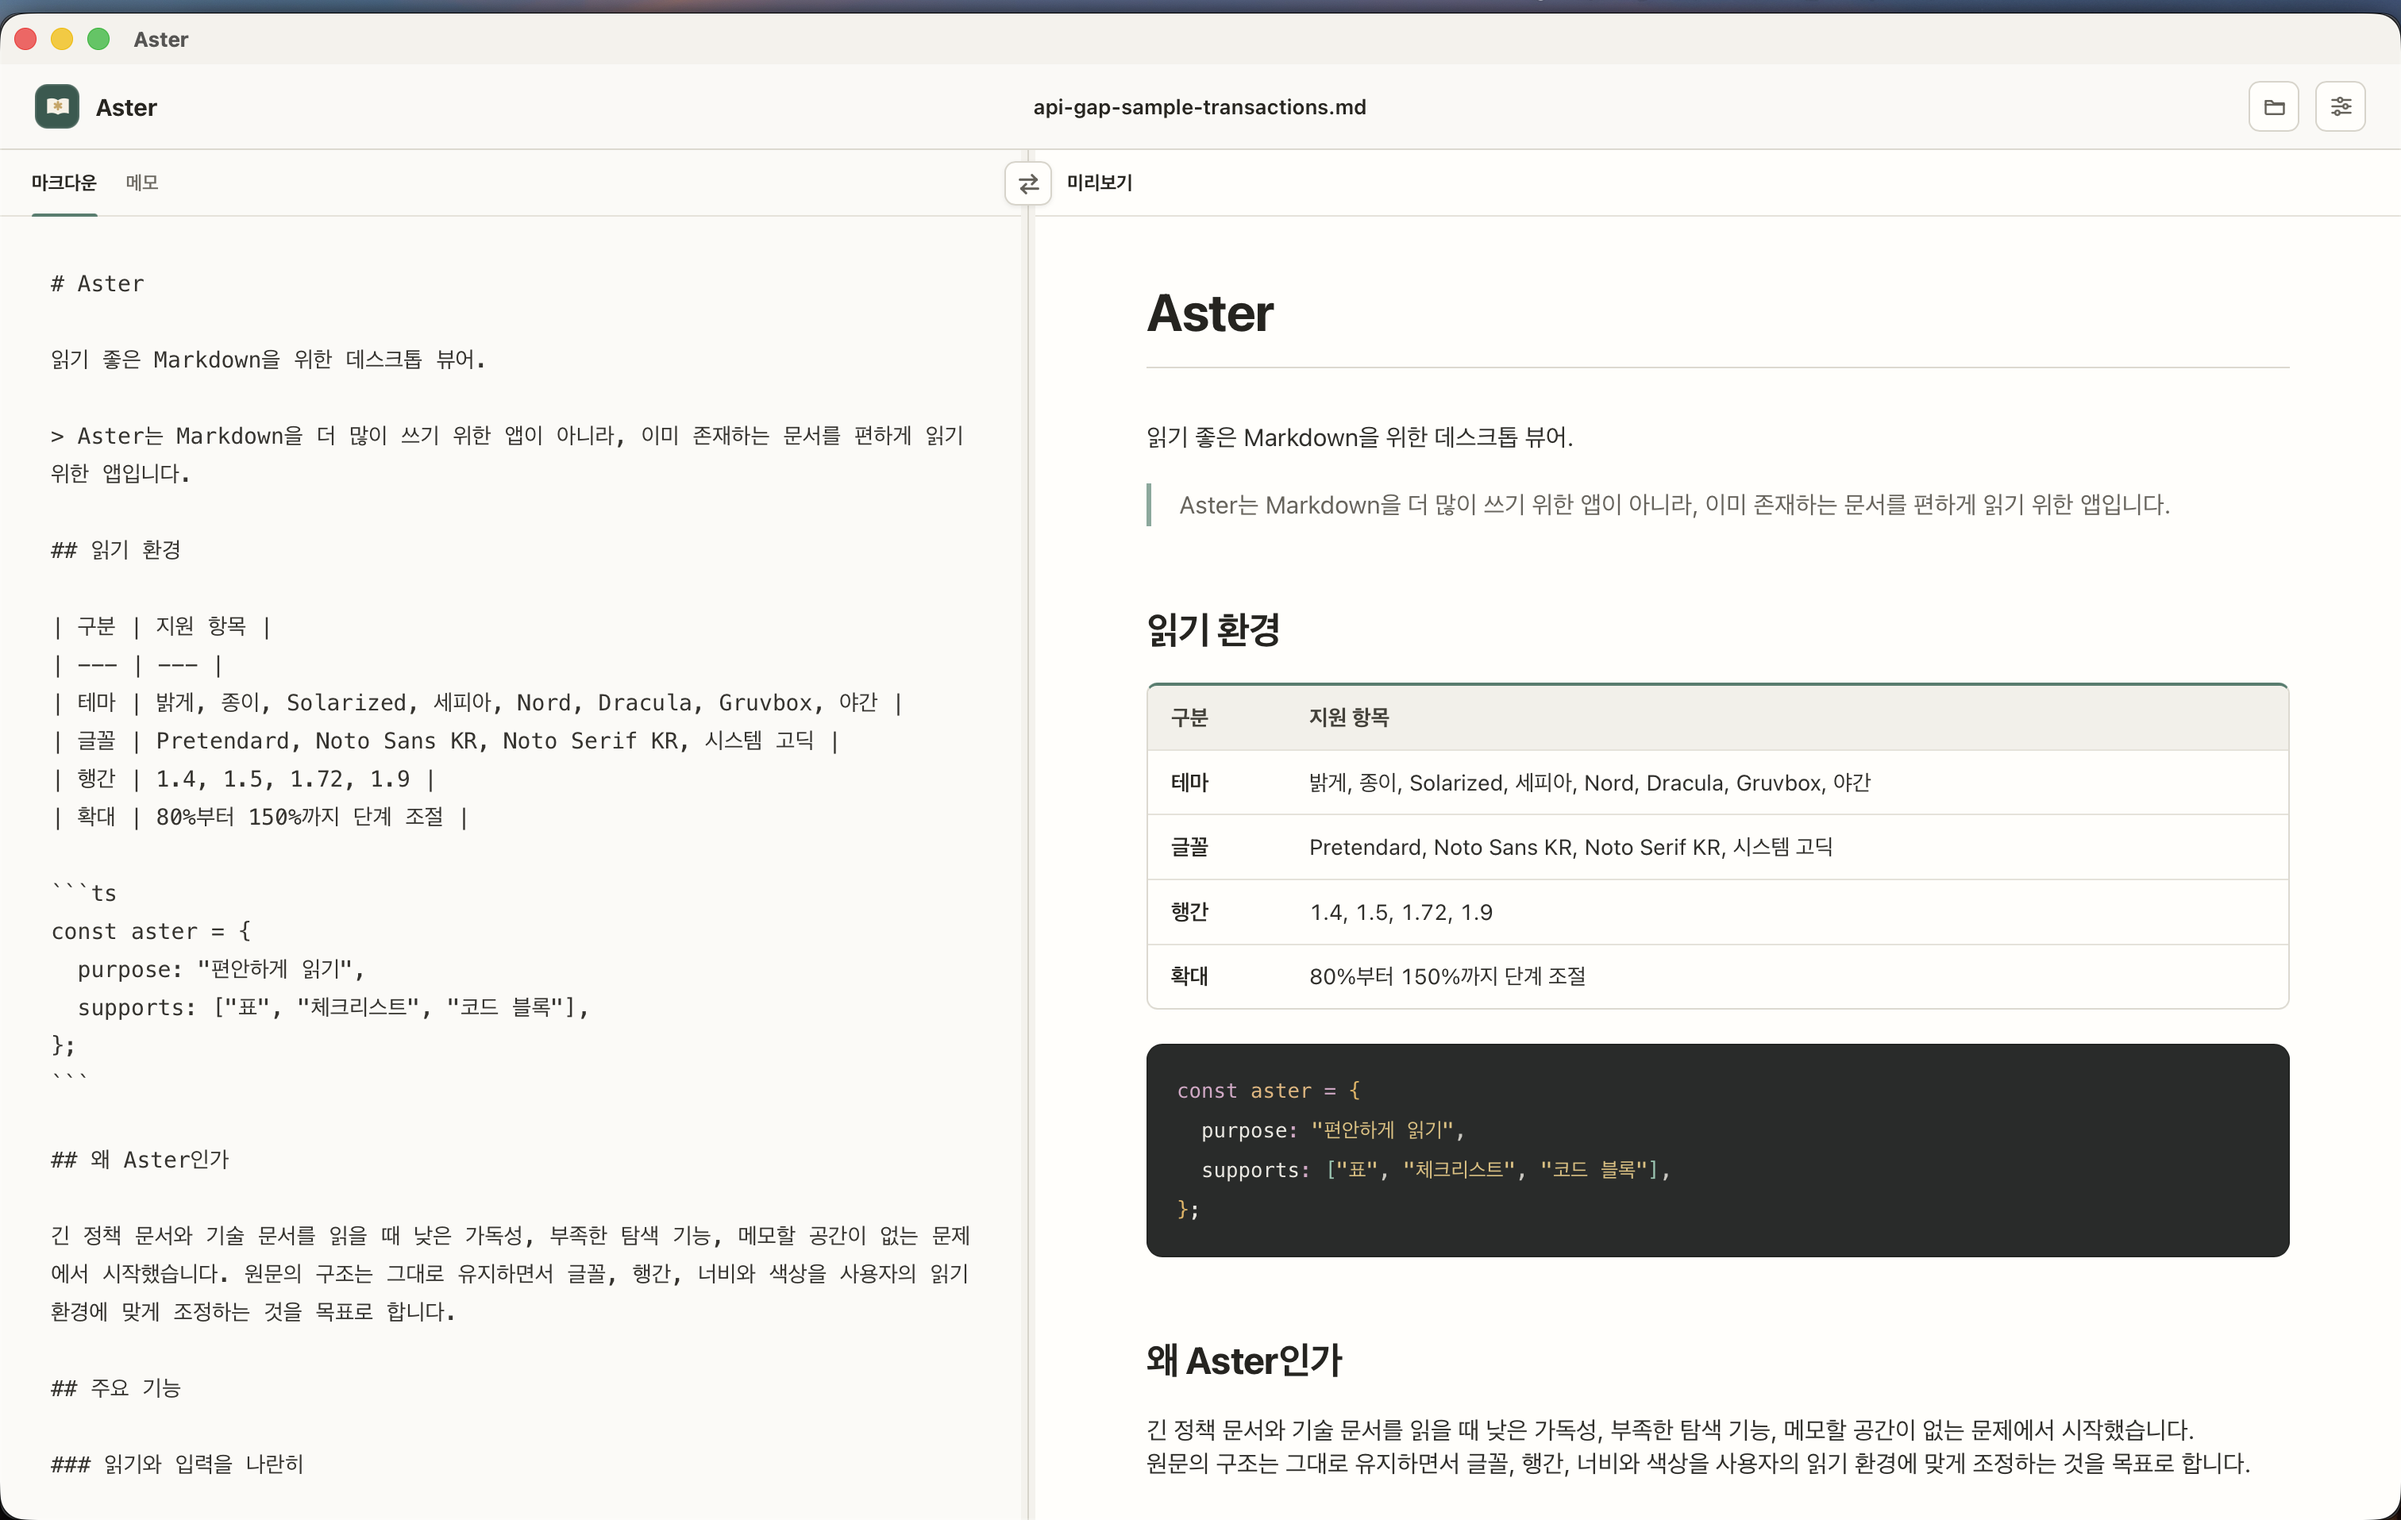
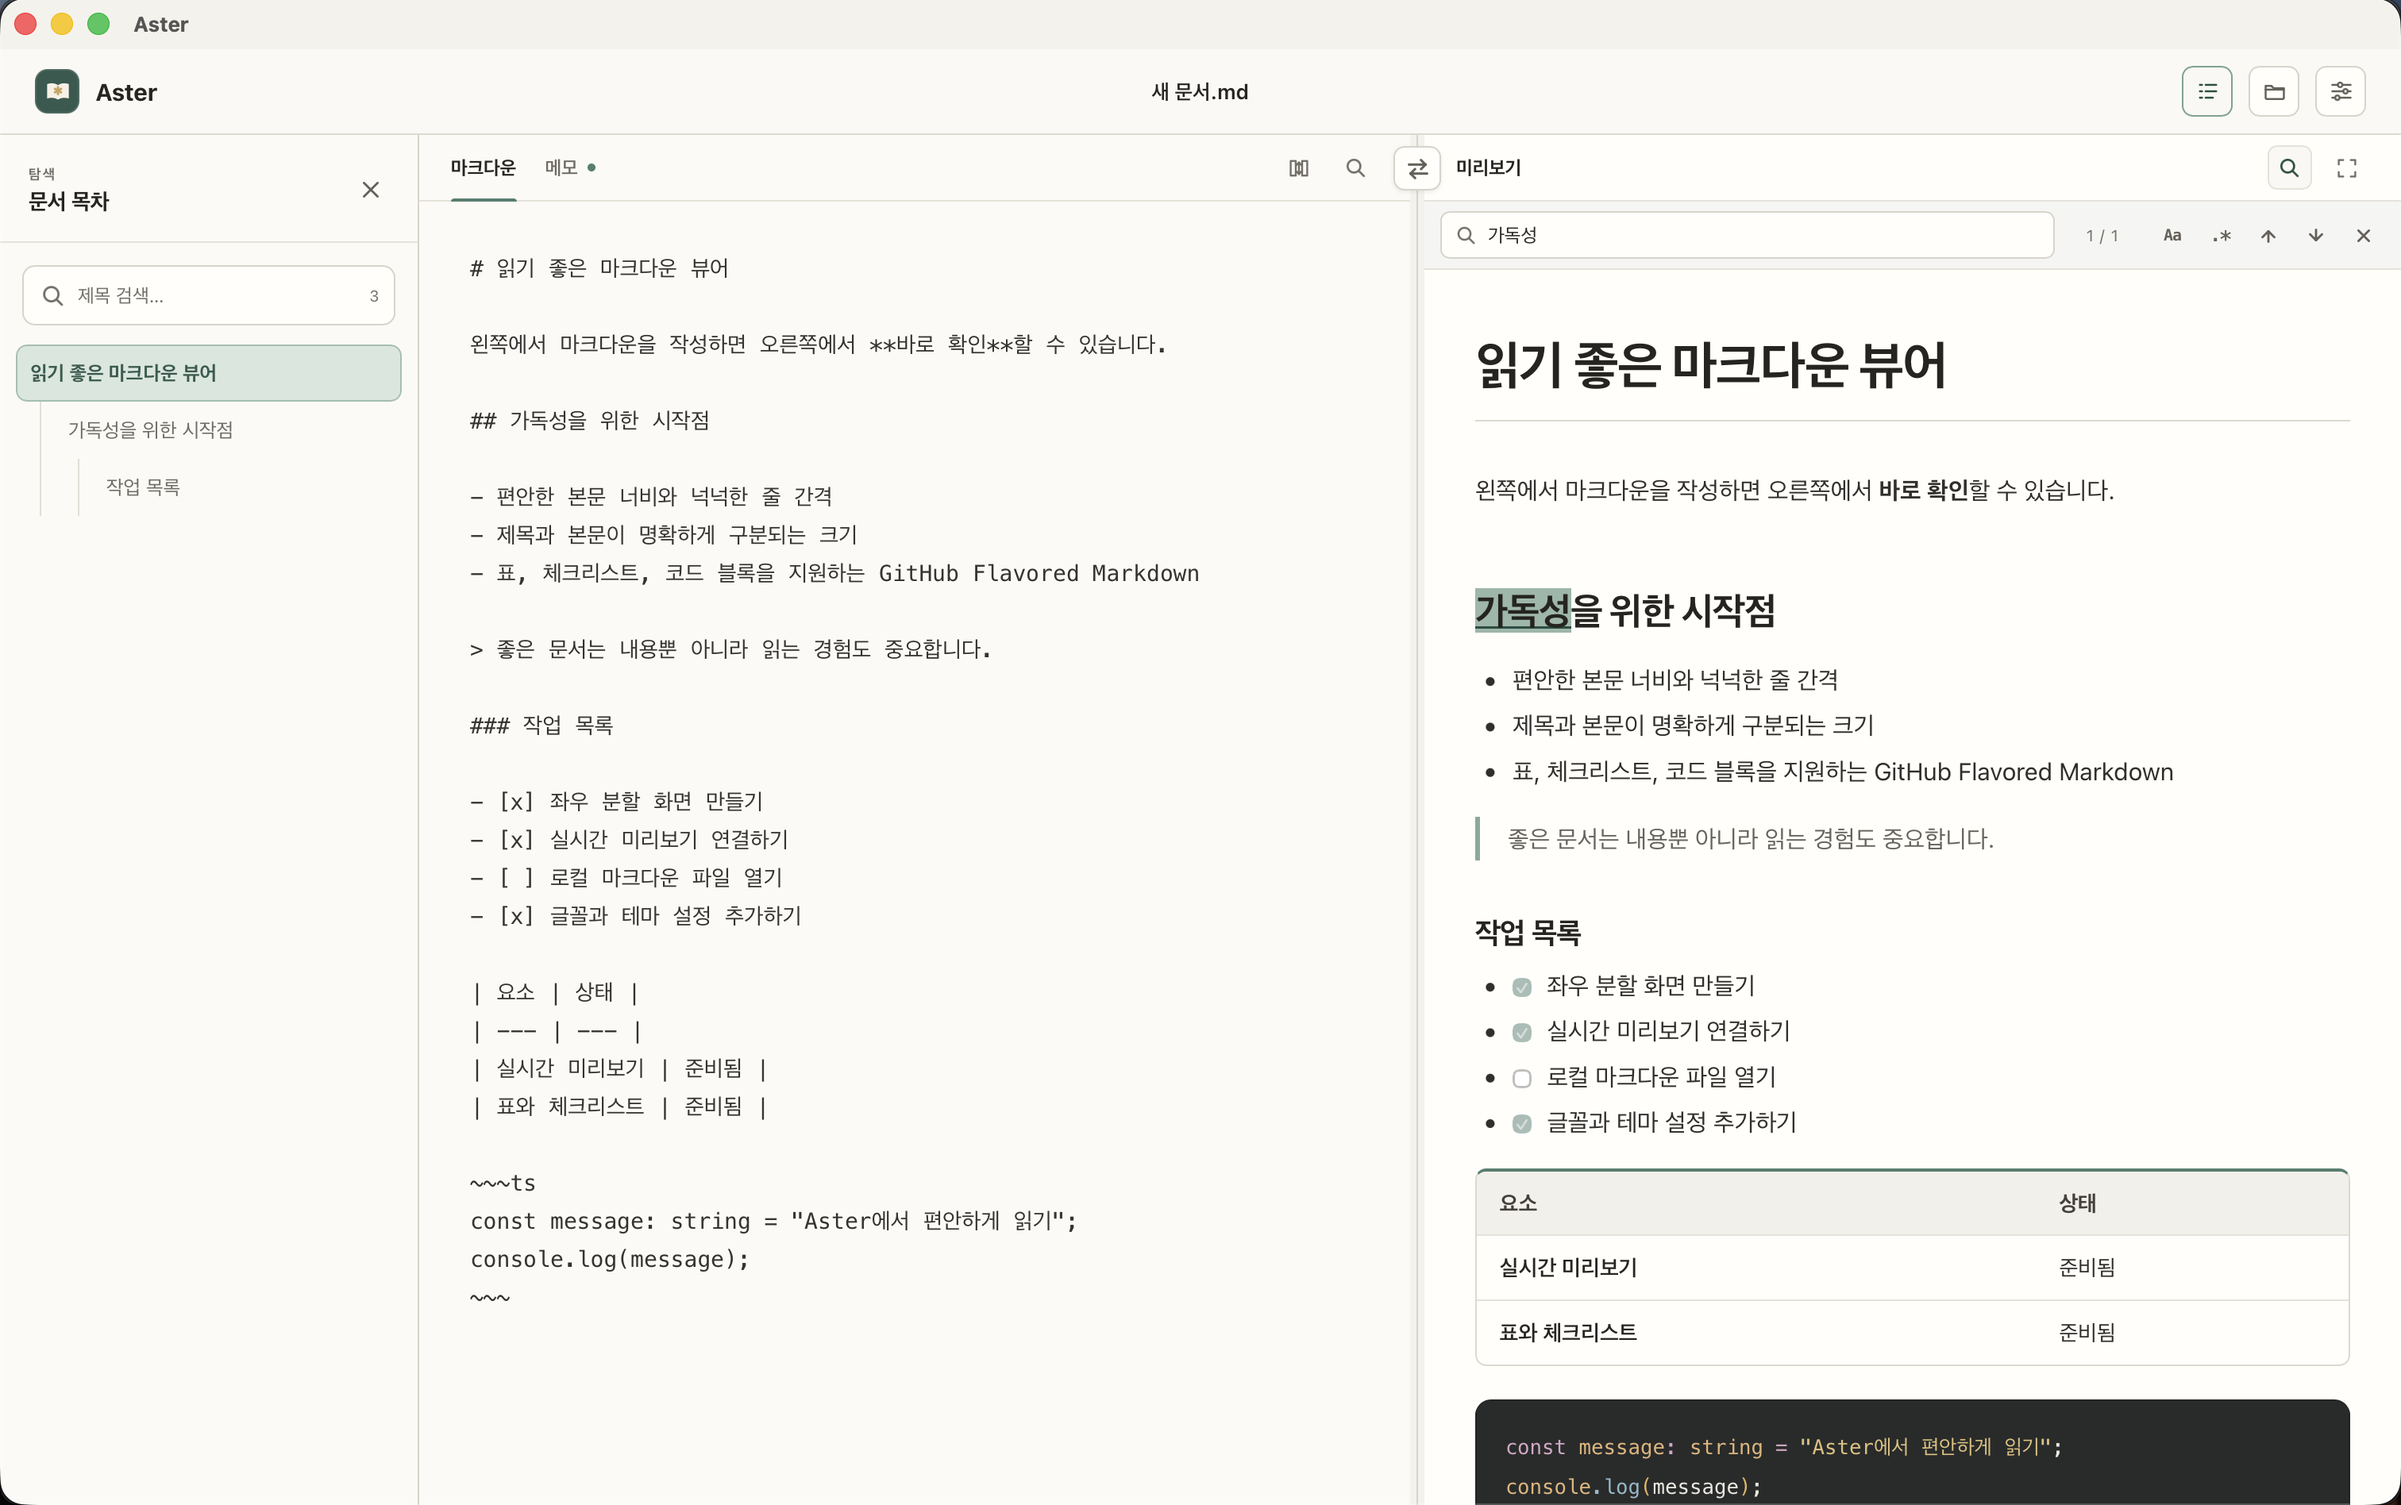
docs(readme): update product screenshot

diff --git a/README.md b/README.md
@@ -1,4 +1,4 @@
-![Aster에서 Markdown 문서를 입력하고 미리보는 화면](docs/assets/aster-overview.png)
+![Aster의 문서 목차, Markdown 편집기와 미리보기 개별 검색](docs/assets/aster-overview.png)
 
 # Aster
 
